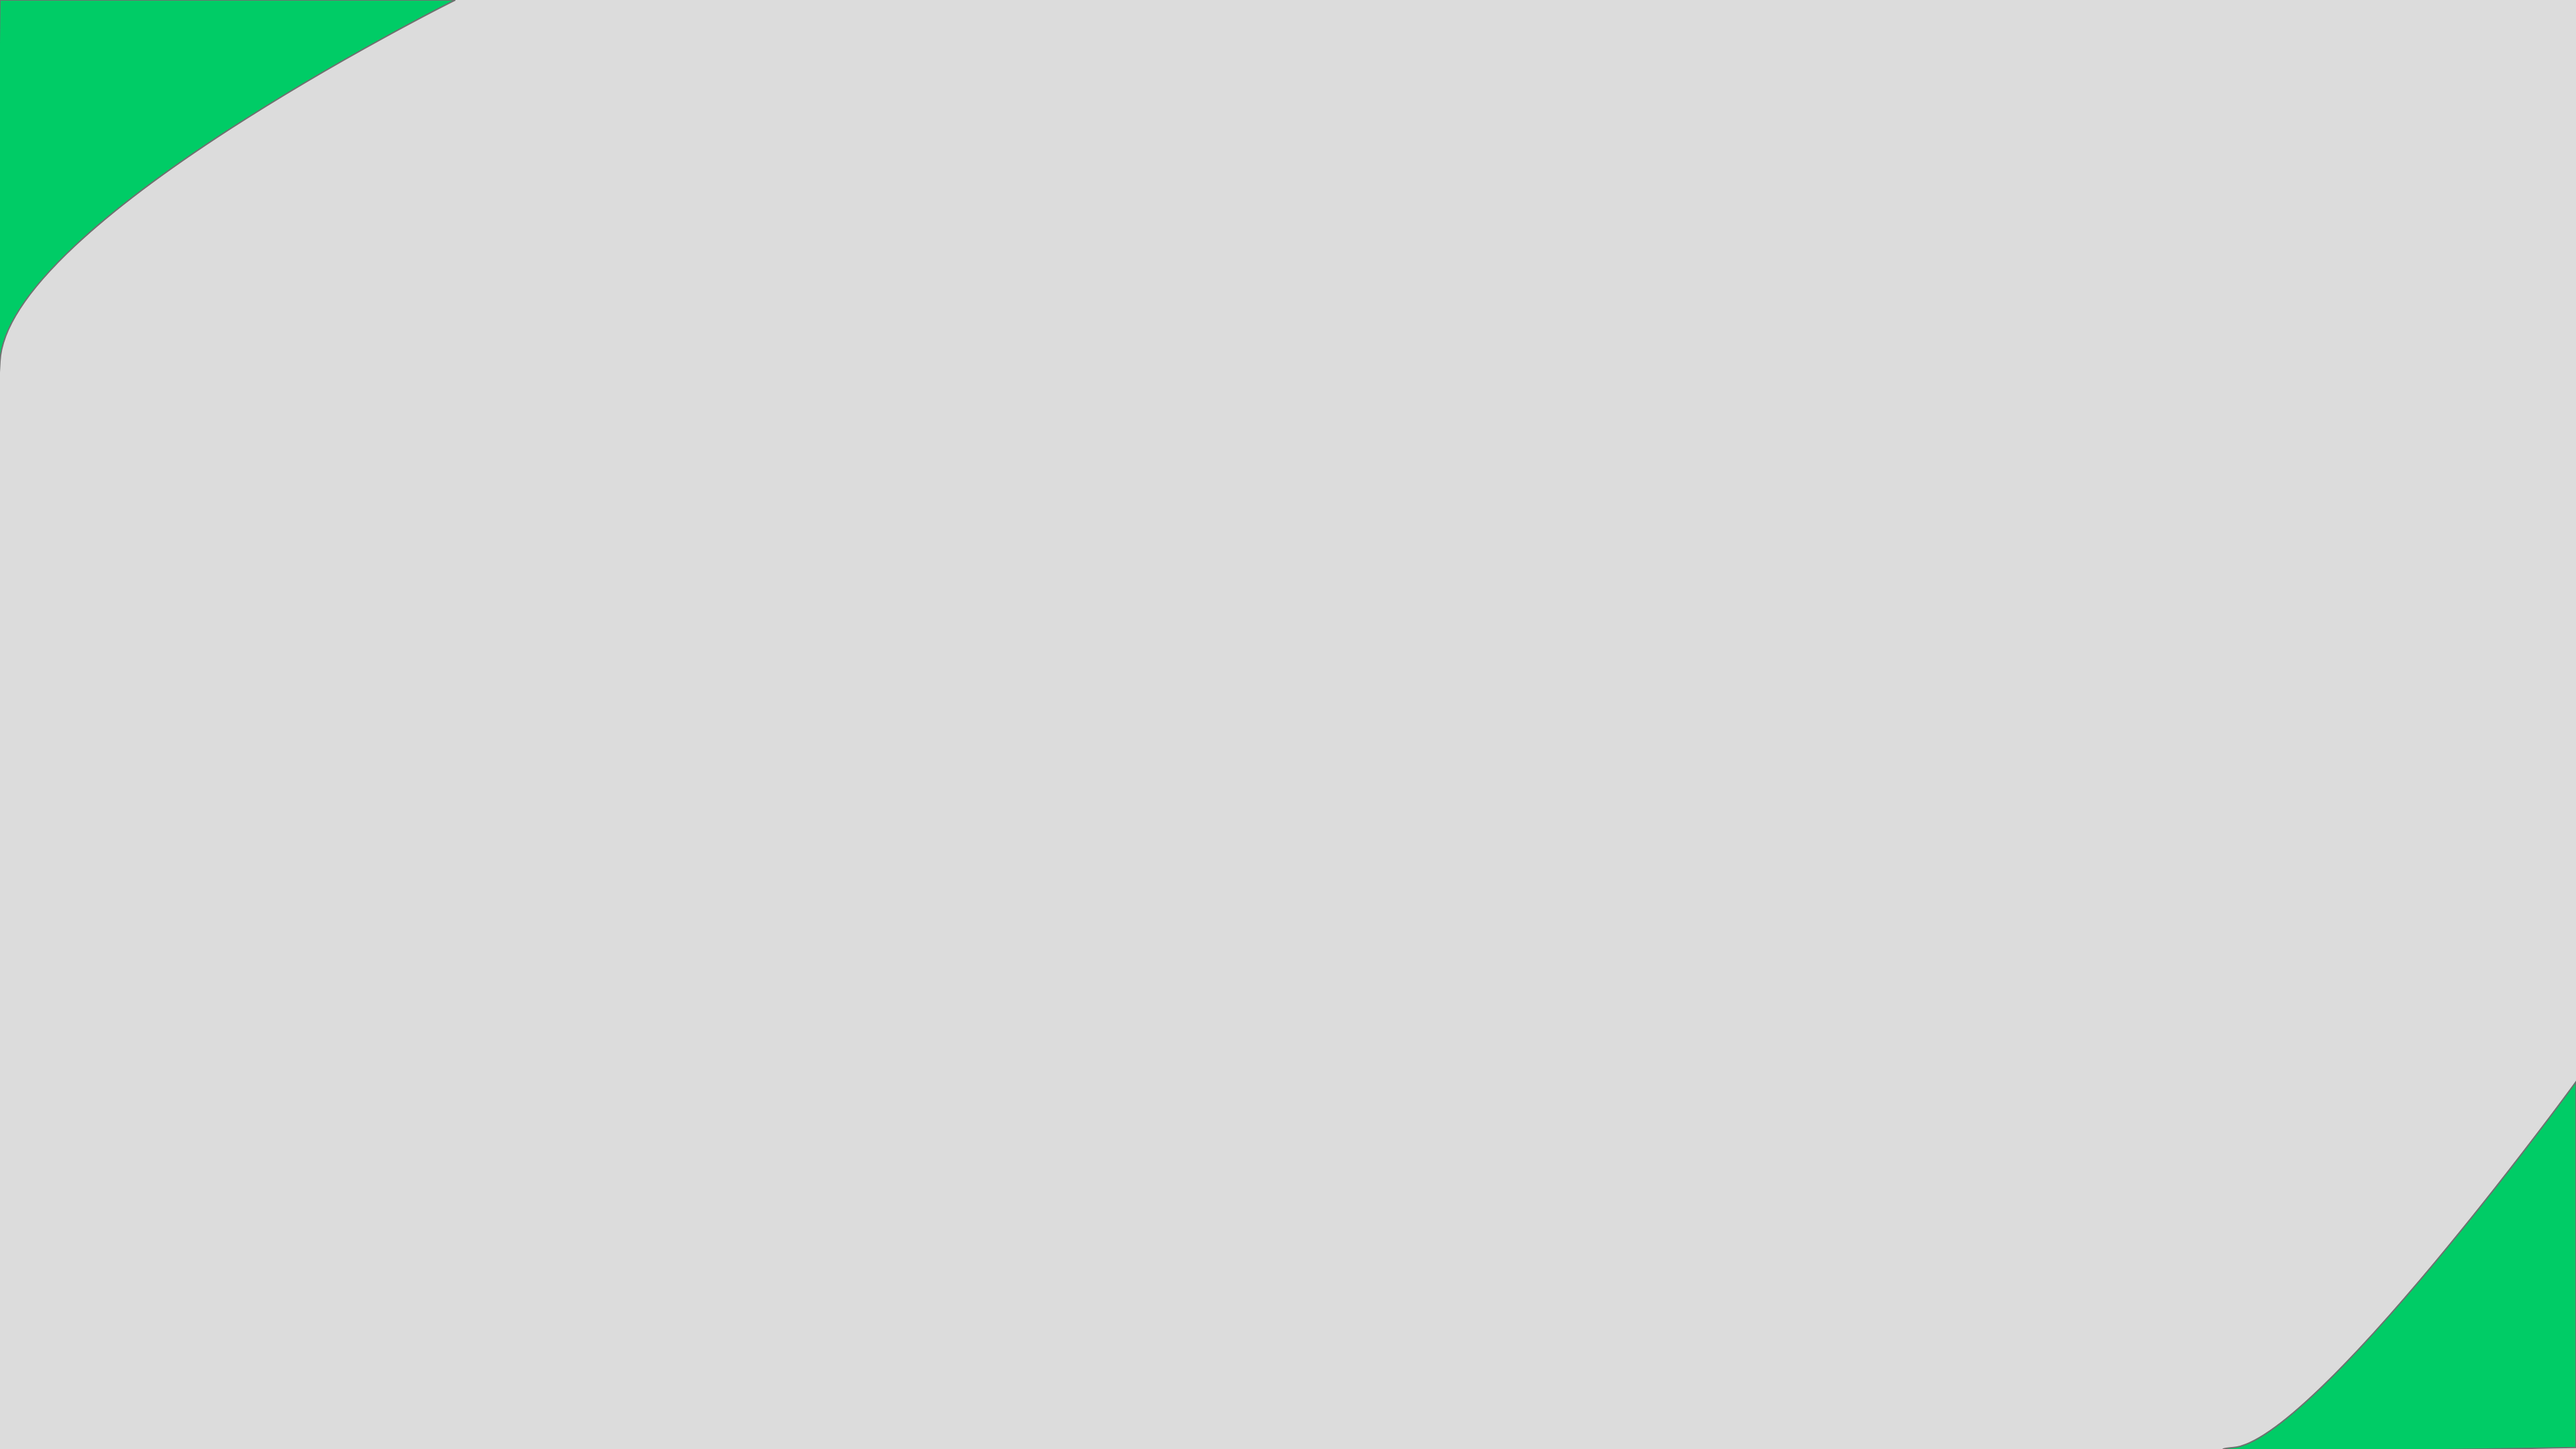
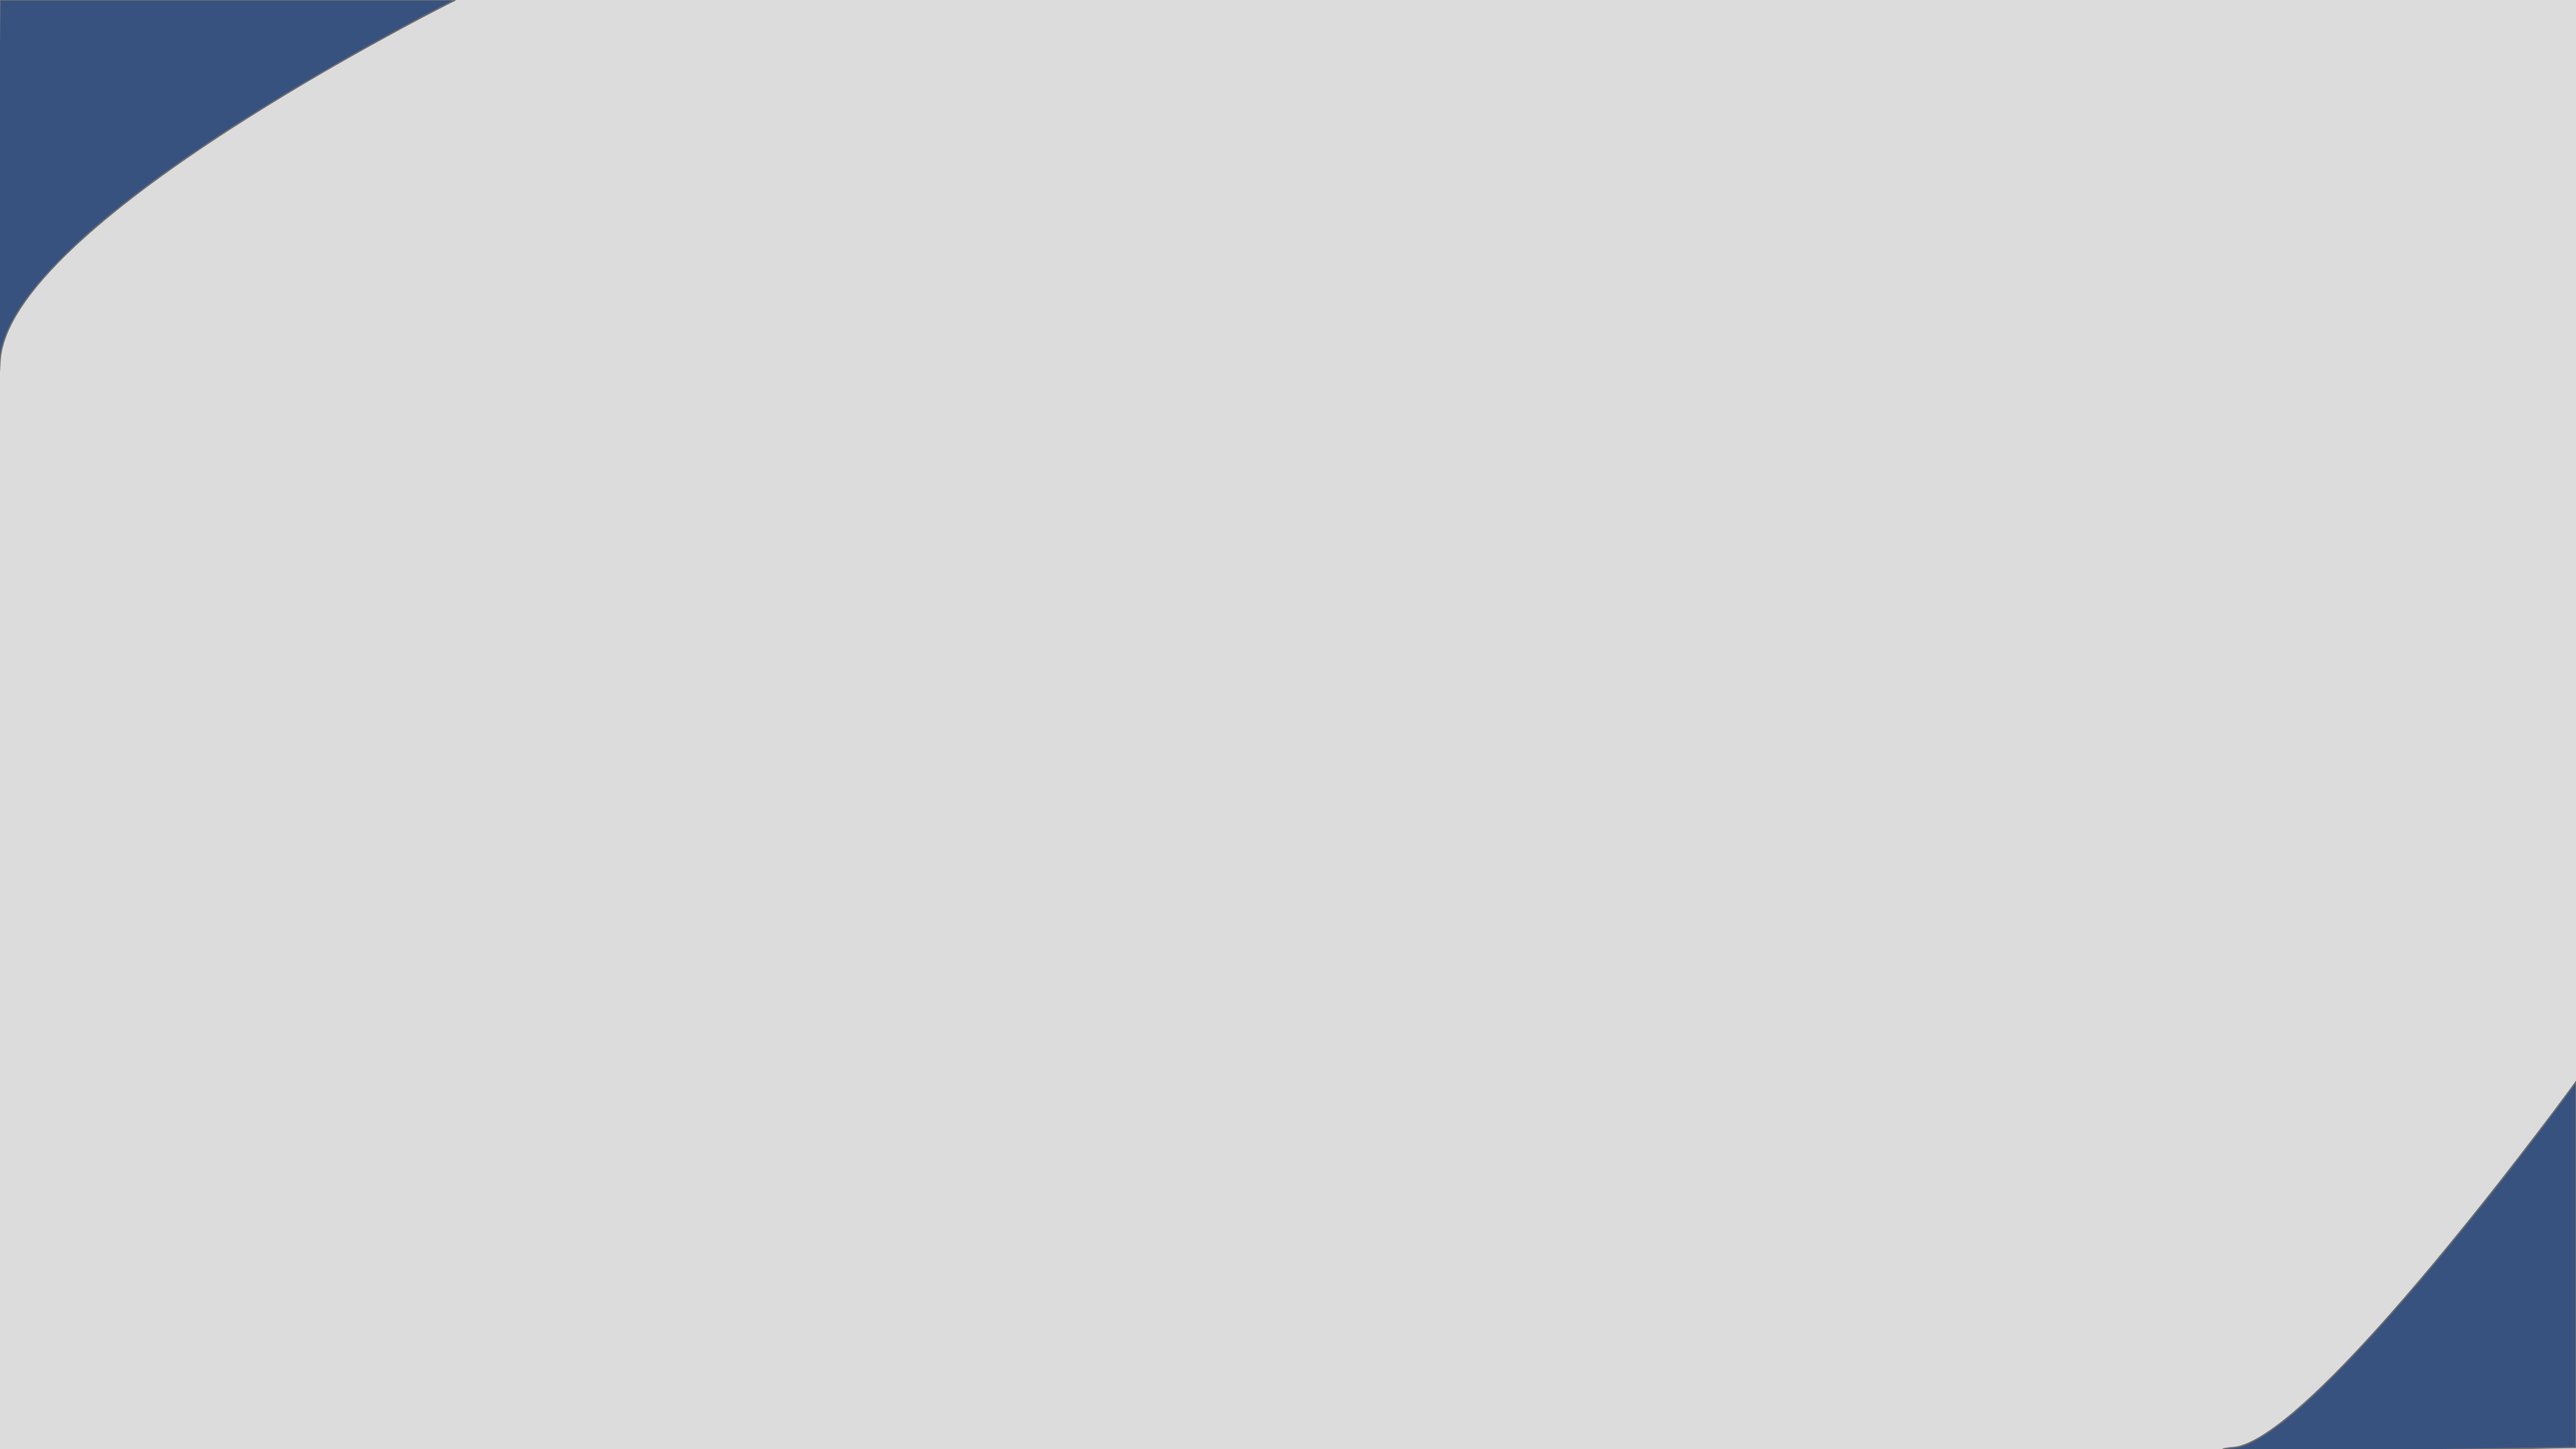
changed theme color

Changed region(s): [[0.0, 0.0, 0.1875, 0.2171], [0.875, 0.7444, 1.0, 1.0]]

diff --git a/styles/layout/SideBar.style.js b/styles/layout/SideBar.style.js
@@ -37,7 +37,7 @@ transition: all .3s;
 display: flex;
 justify-content: center;
 align-items: center;
-color:${(props)=>props.active?`${colors.red}`:`${colors.white}`};//	#666666
+color:${(props)=>props.active?`${colors.white}`:`${colors.white}`};//	#666666
 
     border-bottom: ${(props)=>props.active?`.2px solid ${colors.lightGray}`:''};
     border-top: ${(props)=>props.active?`.2px solid ${colors.lightGray}`:''};
@@ -57,7 +57,7 @@ flex:1;
     min-height: 2rem;
 }
 @media ${device.laptop}{
-    min-height: 3rem;
+    min-height: 2.5rem;
 }
 `
 export const CategoryName=styled.span` 
@@ -71,11 +71,11 @@ export const CategoryName=styled.span`
     margin-right: 2px;
 }
 @media ${device.tablet}{
-    font-size:1rem;
+    font-size:.9rem;
     margin-right: 5px;
 }
 @media ${device.laptop}{
-    font-size:1.2rem;
+    font-size:1rem;
     margin-right: 5px;
 }
 

diff --git a/pages/product/[id]/index.js b/pages/product/[id]/index.js
@@ -6,10 +6,10 @@ import { findproduct } from "../../../redux/actions/ProductActions";
 import { selectCurrentProduct } from "../../../redux/selectors/ProductSelector";
 import { useRouter } from "next/router";
 import { selectCurrentUser } from "../../../redux/selectors/UserSelector";
-const Product=()=>{
+const Product=({id})=>{
 
 
-     const id=window.location.href.split('/')[4];
+    // const id=window.location.href.split('/')[4];
      const dispatch=useDispatch();
      const prod=useSelector(selectCurrentProduct);
      const router=useRouter();
@@ -36,11 +36,11 @@ const Product=()=>{
 }
 export default Product;
 
-/*export async function getServerSideProps({params}) {
+export async function getServerSideProps({params}) {
 
     return {
       props: {
           id:params.id
       }, 
     }
-  }*/
+  }

diff --git a/pages/_app.js b/pages/_app.js
@@ -16,7 +16,18 @@ import { insertAllCategories, insertAllProducts } from "../redux/actions/Product
 import categories from '../data/Categories.json';
 import products from '../data/Products.json';
 import { useEffect } from 'react';
+import nProgress from "nprogress";
+import 'nprogress/nprogress.css';
+import Router from "next/router";
 config.autoAddCss = false;
+
+Router.events.on("routeChangeStart", nProgress.start);
+Router.events.on("routeChangeError", nProgress.done);
+Router.events.on("routeChangeComplete", nProgress.done);
+
+
+
+
 function MyApp({ Component, pageProps }) {
 
   const dispatch=useDispatch();

diff --git a/utilities/GlobalVariablesStyles.js b/utilities/GlobalVariablesStyles.js
@@ -18,8 +18,8 @@ export const device = {
     desktopL: `(min-width: ${size.desktop})`
   };
   export const colors={
-      primaryDark:'#009966',
-      primaryLight:'#00CC66',
+      primaryDark:'#385280',//#009966
+      primaryLight:'#0099CC',//#00CC66
       white:'#FFFFF0',
       black:'#000000',
       gray:'#777777',
@@ -33,7 +33,7 @@ export const device = {
 
   }
 
-  export const PrimayColor='#009966';
+  export const PrimayColor='#385280';
   export const secondaryPurple='#800080'
   export const secondaryOrange='#A52A2A'
   export const accentYellow='#DAA520';

diff --git a/pages/login.js b/pages/login.js
@@ -15,7 +15,7 @@ export default function Home() {
       const{username,password}=currentUser;
       if(username===data.username&&password===data.password){
           sessionStorage.setItem('user',JSON.stringify(currentUser));
-          router.push('/product/');
+          router.push('/');
       }else{
         Notif("danger","نام کاربری یا رمز عبور اشتباه است","یافت نشد");
       }

diff --git a/styles/globals.css b/styles/globals.css
@@ -11,7 +11,7 @@ a {
 }
 
 .notification__item--success .notification__timer {
-  background-color: #00CC66;
+  background-color: #3366FF;
  }
 
  .notification{
@@ -75,8 +75,8 @@ a {
 }
 
 .notification__item--success{
-  background-color: #009966!important;
-  border-left: 8px solid #009966!important;
+  background-color: #385280!important;
+  border-left: 8px solid #385280!important;
 }
 
 

diff --git a/components/register/register.js b/components/register/register.js
@@ -4,7 +4,7 @@ import Image from "next/image";
 import MarketingIcon from '../../public/Sale.png';
 import LoginForm from "../form/LoginForm";
 import Link from "next/link";
-import Backimg from '../../public/images/Background.png';
+import Backimg from '../../public/images/Web 1920 – 1@2x.png';
 const Register=({type,submitForm})=>{
 
     return(

diff --git a/components/payment/StripeButton.js b/components/payment/StripeButton.js
@@ -4,8 +4,8 @@ const StripeCheckoutButton=({price})=>{
 
     const publishKey="pk_test_51JlYSYHXo6lyXaQeMKt3BRppkHZ9SmtAsgmImTziFxwbK0ByJIEBEQ7RZyuUKJcxo0O7ejRKf4mS2isL1kaIhtw600omCSrAR6";
 
-    const handlePayment=(token)=>{;
-
+    const handlePayment=(token)=>{
+        console.log(token)
     }
     return(
         <StripeCheckout

diff --git a/styles/payment/Payment.style.js b/styles/payment/Payment.style.js
@@ -22,8 +22,8 @@ export const PaymentPreview=styled.section`
     padding-bottom: 8rem;
 }
 @media ${device.laptop}{
-    padding-top: 10rem;
-    padding-bottom: 10rem;
+    padding-top: 5rem;
+    padding-bottom: 5rem;
 }
 
 `
